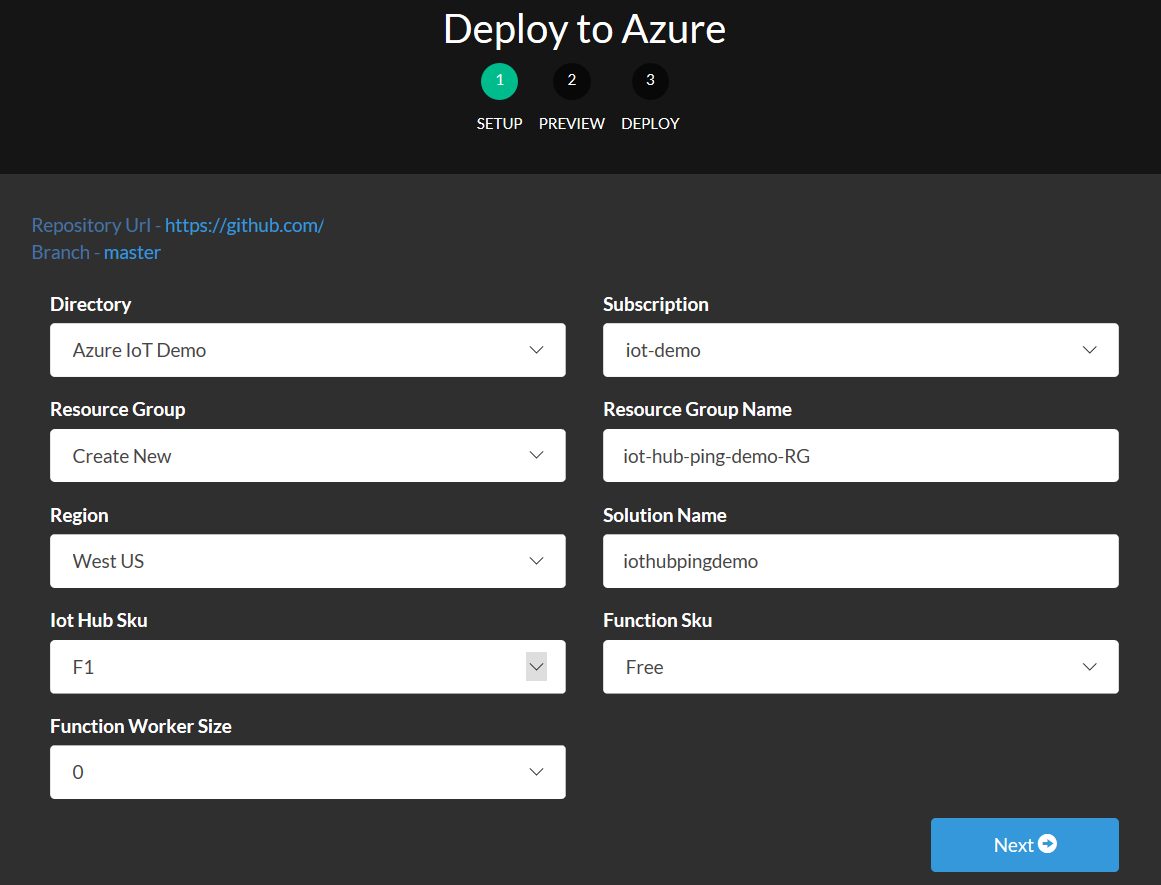
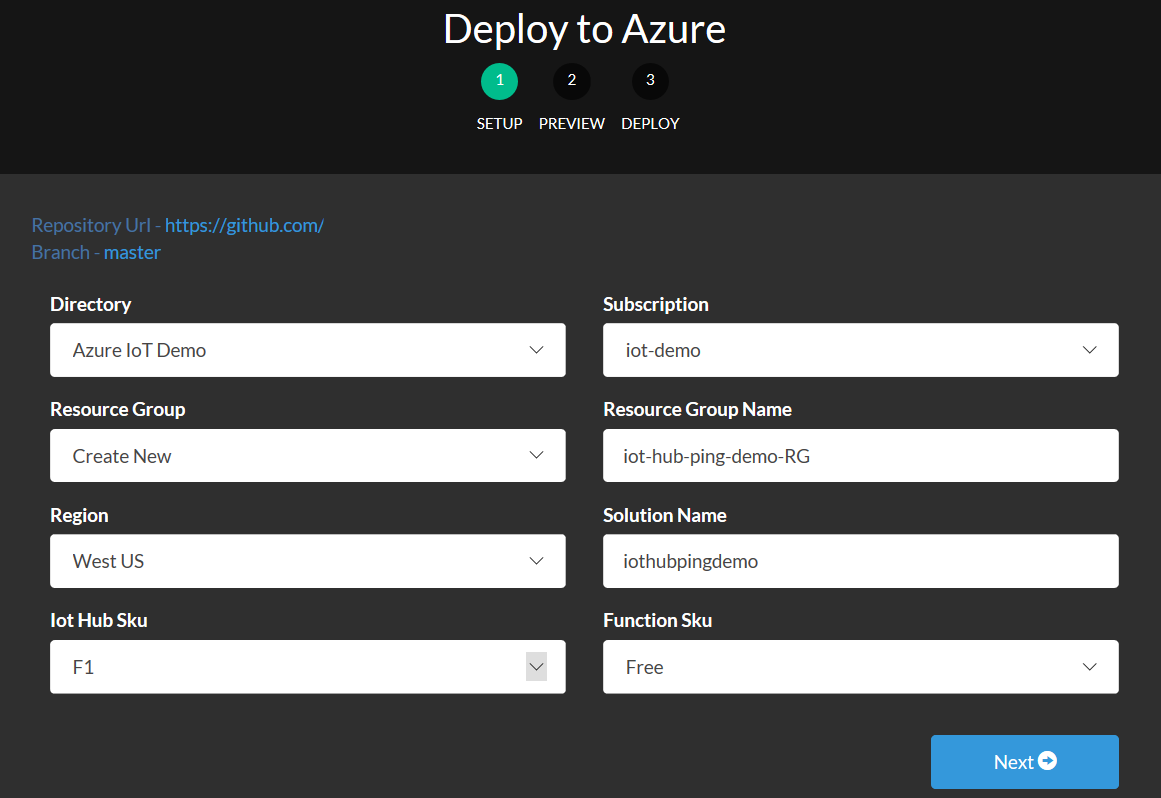
Updated instructions

diff --git a/readme.md b/readme.md
@@ -8,18 +8,30 @@ It also contains a simple device sample written in JavaScript for Node.js.
 
 Deployment of the solution simply consists in clicking on the below button.
 
-[![Deploy to Azure](http://azuredeploy.net/deploybutton.png)](https://azuredeploy.net/)
+[![Deploy to Azure](http://azuredeploy.net/deploybutton.png)](https://azuredeploy.net/ "Deploy to Azure" target="_blank")
  
 Once you have clicked on the button, you will be asked to login with your Azure subscription's credentials.
-Then you'll have to choose the AAD tenant and Subscription you want to deploy the solution to, as well as a few other parameters regarding your solution.
+When you are logged in, you will be prompted for entering parameters for the solution:
+  - Directory: Your Azure acount is bound to an Azure Active Directory. Usually the default one is the only one, but in some cases, you might be using several, in which case you can select the one you want your solution to be secured with.
+  - Subscription: this is the subscription you want the services to be deployed to if you have several Azure subscriptions.
+  - Resource Group/Resource Group Name: The services will be deployed and grouped under the specified resource group allowing a simpler management in the Azure portal. You can choose to create a new one, or to use  an existing resource group.
+  - Region: pick the region you want the services to be deployed to.
+  - Choose a solution name: **Important**, the solution name should be all lower case, only ascii caracters and no longer that 16 characters.
+  - IoT Hub Sku: select the Sku you want for the IoT Hub : F1 (Free), S1 or S2. Note that you can only have 1 instance of F1 per Azure subscription.
+  - Funciton Sku: select the Sku you wnat for the Azure Function.
 
-Note that if you want to use the free SKU for Azure IoT Hub, you can select the F1 tier in the drop down menu, but keep in mind that you are limited to a single instance of an F1 IoT Hub per subscription.
-
-**Important note about the "Solution Name" parameter**: the solution name should be all lower case, only ascii caracters and no longer that 16 characters.
 
 ![][1]
 
-Hit **Next** then **Deploy** in the wizard and wait a couple minutes for the services to be deployed and configured.
+Hit **Next**
+The wizard checks the selected parameters and lists the services it will deploy:
+  - Microsoft.Storage is the an Azure storage service required by both IoT Hub and Function
+  - Microsoft.Devices is the Azure IoT Hub service
+  - Website is the Azure Function service.  
+
+![][3]
+
+Hit **Deploy** in the wizard and wait a couple minutes for the services to be deployed and configured.
 
 ![][2]
 
@@ -72,6 +84,7 @@ If you want to get started with Azure IoT Hub, visit [Azure.com/iotdev](http://a
 
 [1]:media/azuredeploy1.png
 [2]:media/azuredeploy2.png
+[3]:media/azuredeploy3.png
 [manageazureiothub]:https://github.com/Azure/azure-iot-sdks/blob/master/doc/manage_iot_hub.md
 [azureiotsdks]:https://github.com/Azure/azure-iot-sdks
 [azureiotstarterkits]:https://azure.microsoft.com/develop/iot/starter-kits/
